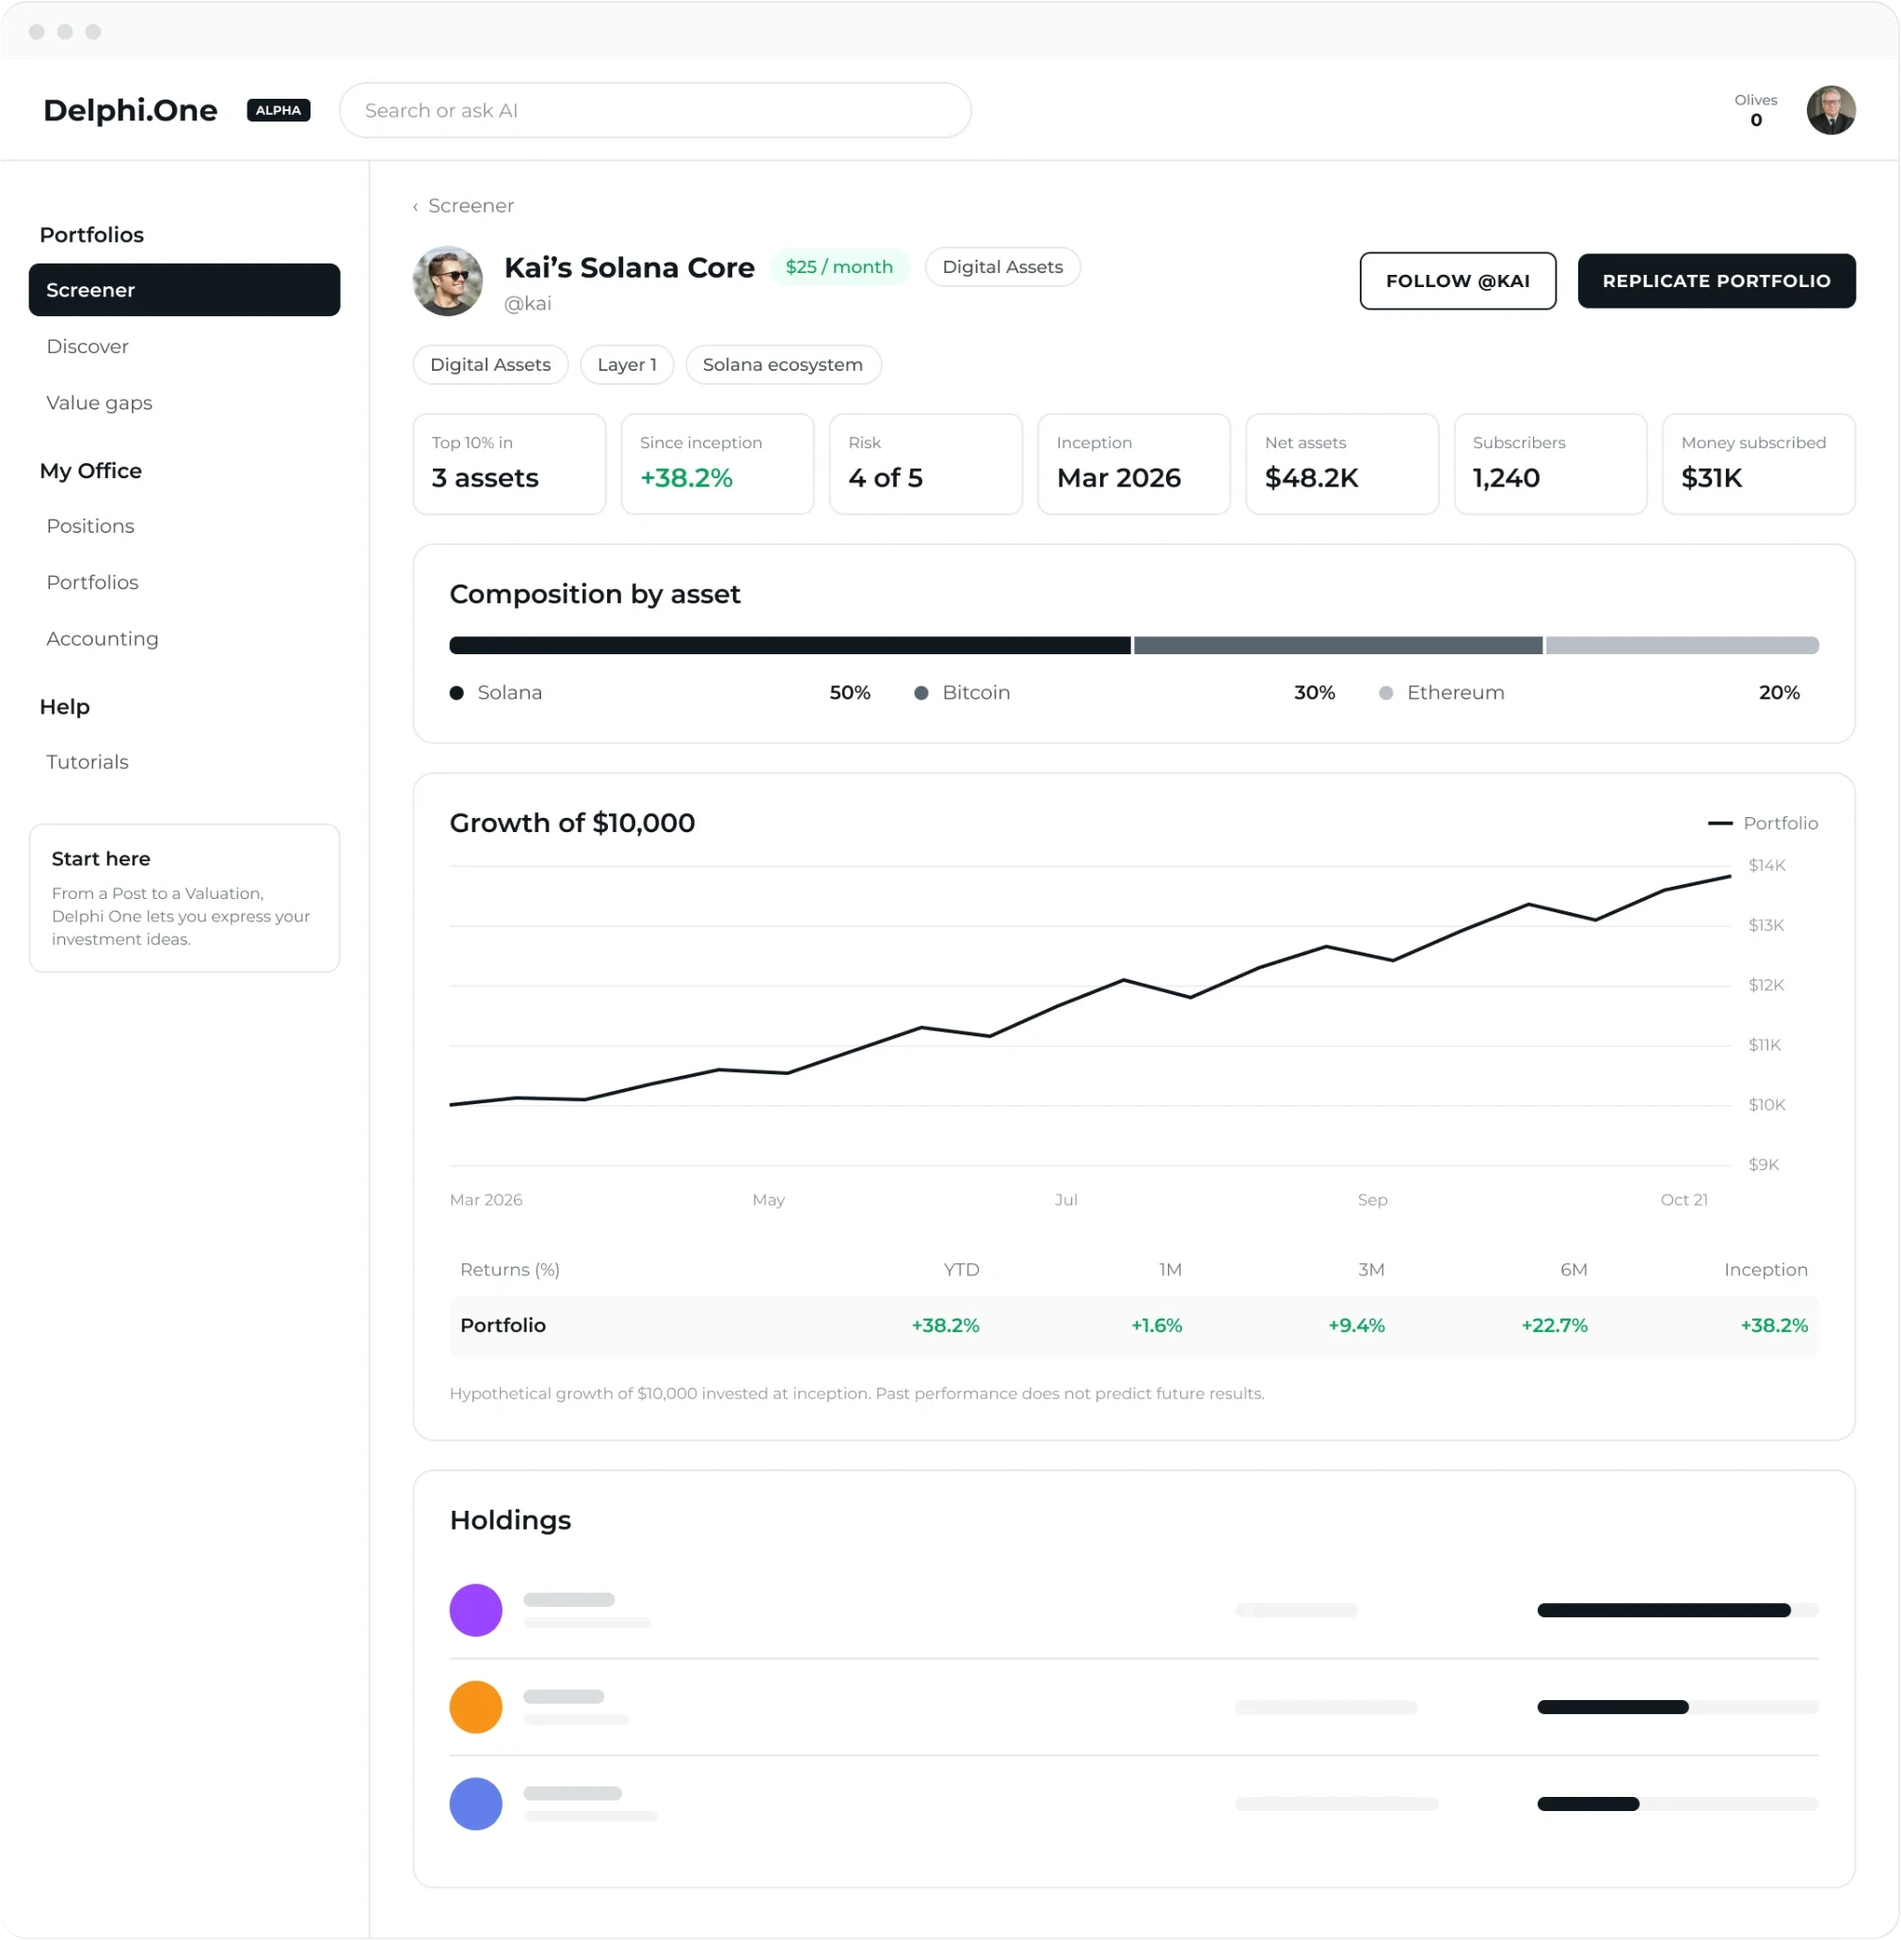
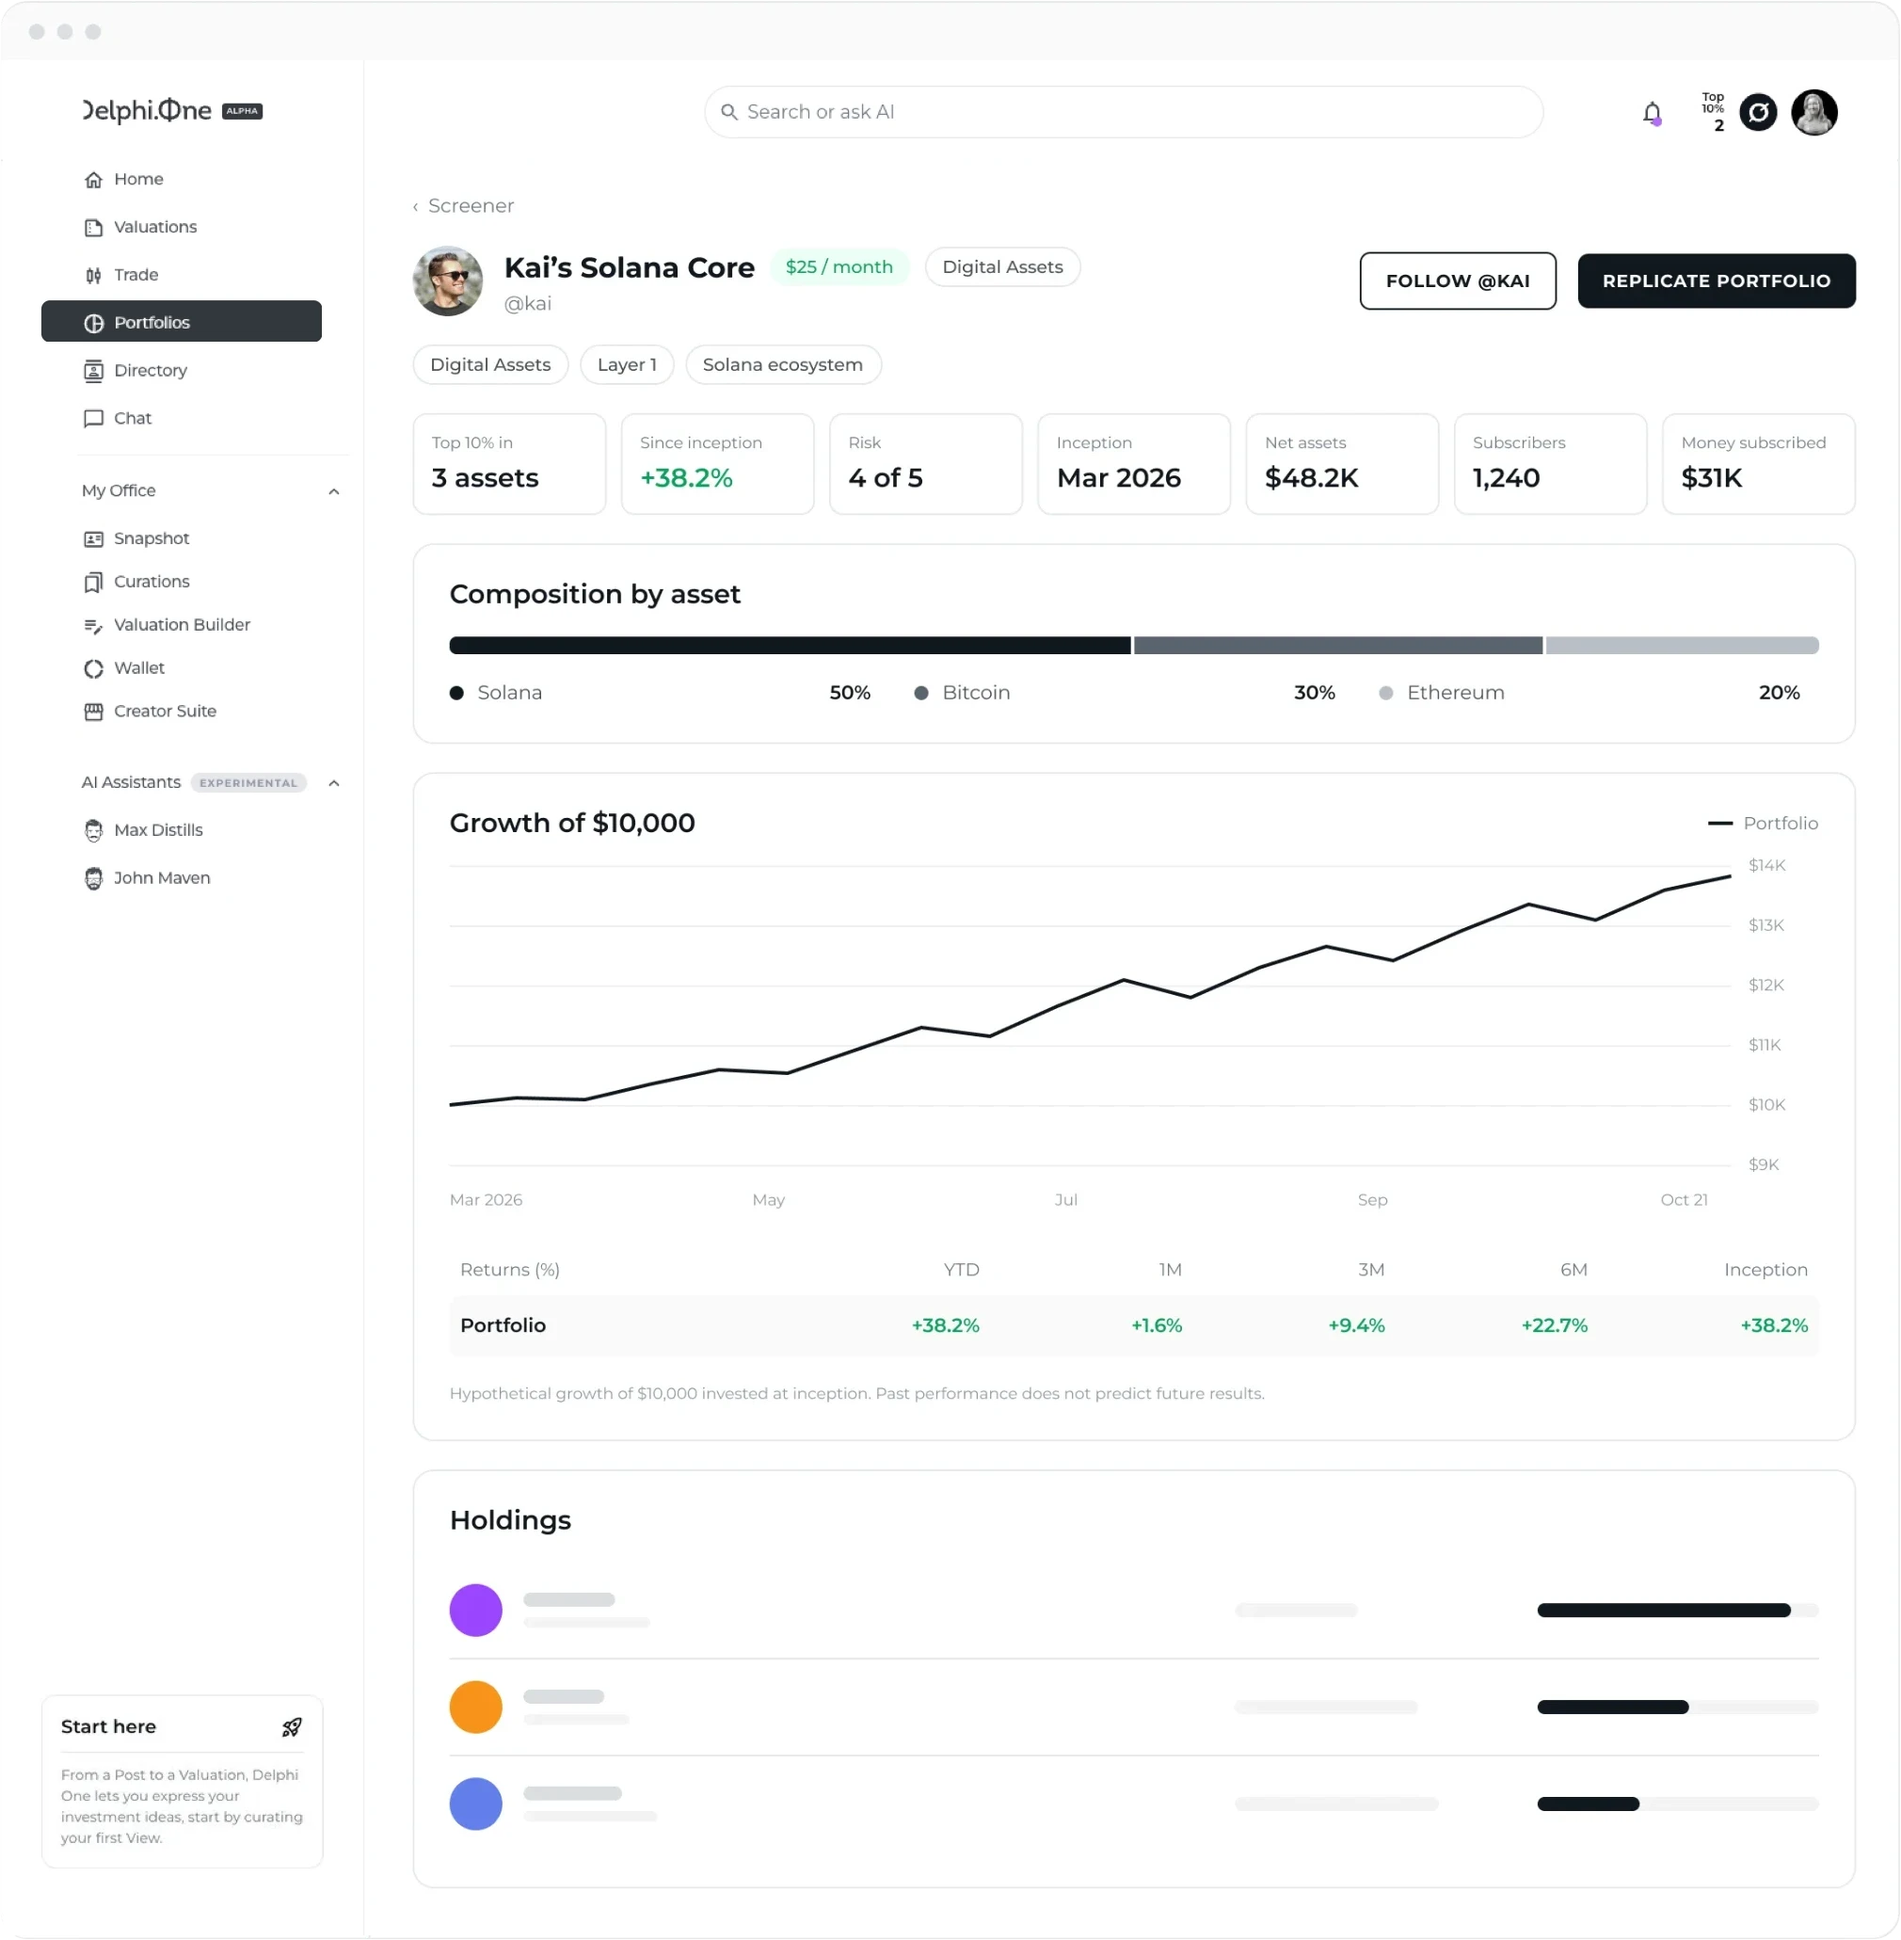
Trade, Portfolio y /creators: capturas como se ven en la app
- Trade right next to the idea: el panel muestra un View y su counter-View
  de Bitcoin como las cards reales (ilustración, stats y votos recortados de
  jd1_views; título y texto en HTML). En mobile, sólo el View.
- Every analyst's money is real: Buy/Sell igual al selector del ticket.
- We never hold your funds: la captura muestra sólo el Wallet, más grande.
- Barra de navegador arriba de las 3 capturas de Trade y de todas las de
  /creators (ShotCards, newsletter, Model portfolio, Olives y D1 seat).
- Portfolio (pf_window): header y menú reales de la app, Portfolios activo.

diff --git a/src/styles/global.css b/src/styles/global.css
@@ -271,6 +271,16 @@ section.sec{padding-block:clamp(64px,7vw,150px) 0}
 .appbar{height:44px;background:var(--soft);display:flex;align-items:center;gap:6px;padding:0 16px}
 .appbar i{width:10px;height:10px;border-radius:50%;background:var(--btnline);display:block}
 .appbar span{margin-left:16px;font-size:14px;color:var(--muted)}
+/* browser bar (as in vb_window / pf_window) for the screenshots that come without one */
+.appwin.browser::before,.pg-creators .fcar.pair .appwin::before,.pg-creators .nl-shot::before,.shotwin::before,#win .mock.wide::before{content:"";display:block;height:34px;box-sizing:border-box;border-bottom:1px solid #f0f0f0;background:radial-gradient(circle at 15px 50%,#dfe1e5 4.5px,transparent 5px),radial-gradient(circle at 30px 50%,#dfe1e5 4.5px,transparent 5px),radial-gradient(circle at 45px 50%,#dfe1e5 4.5px,transparent 5px),#fafafa}
+/* For Creators: every screenshot gets the bar too (20-nov) */
+.shotwin::before{position:relative;z-index:1}
+.shotbox .shotwin img{top:34px}
+.pg-creators .ntf.ntf-olives{top:calc(35px + 100cqw * .2)}
+.pg-creators .nl-stage .mail{top:calc(35px + 56 * var(--m))}
+#win .mock.wide{filter:drop-shadow(0 18px 40px rgba(16,23,30,.14))}
+#win .mock.wide img{filter:none;border-top-left-radius:0!important;border-top-right-radius:0!important;display:block}
+#win .mock.wide::before{position:absolute;left:0;right:0;bottom:100%;border-radius:12px 12px 0 0}
 .appwin .shot{width:100%;aspect-ratio:966/560;object-fit:cover;object-position:top;background:var(--soft2)}
 @media (max-width:900px){.frow,.frow.left{grid-template-columns:minmax(0,1fr)}.frow.left .ftext{order:0}.ftext p{font-size:16px;line-height:24px}}
 
@@ -1082,6 +1092,7 @@ section[tabindex="-1"]:focus{outline:none}
   /* the D1 seat: the window capped by the screen height like the other compositions, the cards under it */
   #win .stage>.mock{width:100%!important;max-width:min(770px,calc(45vh * 1440 / 1090));max-width:min(770px,calc(45svh * 1440 / 1090))}
   #win .stage>.mock img{width:100%!important;height:auto}
+  #win .stage>.mock{position:relative;margin-top:34px}
 }
 @media (max-width:900px){
   .shotgrid{grid-template-columns:minmax(0,1fr);gap:48px;max-width:560px;margin:0 auto}
@@ -1365,18 +1376,14 @@ html.tp .pg-creators .h-badge{font-size:16px;line-height:22px}
 /* Trade card 1: the Valuation's debate (Views, counter-Views, Arguments) over the chart, next to the ticket
    (Álvaro, 20-nov). Units of the screenshot's own 1300px-wide frame so it scales with the shot. */
 .appwin.dbt-host{position:relative;container-type:inline-size}
-.dbt{--t:calc(100cqw / 1300);position:absolute;left:calc(44 * var(--t));top:calc(353 * var(--t));width:calc(736 * var(--t));min-height:calc(358 * var(--t));box-sizing:border-box;background:var(--white);border:1px solid #e3e5e8;border-radius:calc(14 * var(--t));box-shadow:0 calc(6 * var(--t)) calc(24 * var(--t)) rgba(20,24,30,.08);padding:calc(18 * var(--t)) calc(22 * var(--t)) calc(14 * var(--t));font-size:calc(15 * var(--t));line-height:1.35;color:#2f3338;text-align:left}
-.dbt-hd{display:flex;align-items:center;gap:calc(12 * var(--t));padding-bottom:calc(12 * var(--t));border-bottom:1px solid #eceef0}
-.dbt-hd img{width:calc(40 * var(--t));height:calc(40 * var(--t));border-radius:50%;object-fit:cover}
-.dbt-hd b{display:block;font-size:calc(17 * var(--t));font-weight:600;color:#14181e}
-.dbt-hd small{display:block;margin-top:calc(2 * var(--t));font-size:calc(13 * var(--t));color:#7a7f85}
-.dbt-sec{margin:calc(12 * var(--t)) 0 calc(6 * var(--t));font-size:calc(12 * var(--t));font-weight:600;letter-spacing:.06em;text-transform:uppercase;color:#8b9096}
-.dbt-row{display:grid;grid-template-columns:calc(108 * var(--t)) 1fr auto;align-items:center;gap:calc(10 * var(--t));padding:calc(8 * var(--t)) calc(12 * var(--t));margin-top:calc(6 * var(--t));border:1px solid #eceef0;border-left:calc(3 * var(--t)) solid;border-radius:calc(8 * var(--t))}
-.dbt-row.pro{border-left-color:#16a34a}.dbt-row.con{border-left-color:#dc4b42}
-.dbt-k{justify-self:start;padding:calc(2 * var(--t)) calc(8 * var(--t));border-radius:999px;font-size:calc(12 * var(--t));font-weight:500}
-.dbt-row.pro .dbt-k{background:#e9f7ee;color:#15803d}.dbt-row.con .dbt-k{background:#fdecea;color:#c2392f}
-.dbt-row p{margin:0;font-weight:500;color:#202327;white-space:nowrap;overflow:hidden;text-overflow:ellipsis}
-.dbt-m{font-size:calc(13 * var(--t));color:#6b7076}
+/* "Trade right next to the idea": a View and its counter-View drawn like the app's cards (jd1_views).
+   Units are app pixels (--a); the illustration, stats row and vote row are crops of the real cards. */
+.dbt{--a:calc(100cqw * 736 / 1300 / 1104);position:absolute;left:calc(100cqw * 44 / 1300);top:calc(35px + 100cqw * 342 / 1300);width:calc(1104 * var(--a));box-sizing:border-box;display:grid;grid-template-columns:1fr 1fr;gap:calc(24 * var(--a));align-items:start;padding:calc(20 * var(--a));background:var(--white);border-radius:calc(16 * var(--a));box-shadow:0 calc(10 * var(--a)) calc(40 * var(--a)) rgba(20,24,30,.14),0 0 0 1px rgba(20,24,30,.05);text-align:left}
+.vw-card{display:flex;flex-direction:column;min-width:0;border:1px solid #e7e7e7;border-radius:calc(12 * var(--a));overflow:hidden;background:var(--white);padding-bottom:calc(14 * var(--a))}
+.vw-card img{display:block;width:100%;height:auto}
+.vw-card h4{margin:calc(10 * var(--a)) calc(28 * var(--a)) 0;font-size:calc(20 * var(--a));line-height:calc(26 * var(--a));font-weight:600;color:#1f2226;letter-spacing:0}
+.vw-card p{position:relative;margin:calc(12 * var(--a)) calc(28 * var(--a)) calc(10 * var(--a));height:calc(104 * var(--a));overflow:hidden;font-size:calc(16 * var(--a));line-height:calc(26 * var(--a));color:#3d4146}
+.vw-more{position:absolute;right:0;bottom:0;padding-left:calc(28 * var(--a));background:linear-gradient(90deg,rgba(255,255,255,0),#fff calc(24 * var(--a)));font-size:calc(14 * var(--a));color:#5f6368}
 
 /* Phones: the HTML panels over the screenshots get bigger so their text can be read (20-nov). Each panel
    keeps fewer rows so it still fits inside its window. */
@@ -1384,8 +1391,11 @@ html.tp .pg-creators .h-badge{font-size:16px;line-height:22px}
   .ntf{--u:calc(100cqw / 1630 * 2.6);right:calc(100cqw * .025);top:calc(100cqw * .04)}
   .ntf .ntf-it:nth-child(n+6){display:none}
   .ntf.ntf-olives{--u:calc(100cqw / 640);right:calc(100cqw * .03);top:calc(100cqw * .12);width:94%}
+  .pg-creators .ntf.ntf-olives{top:calc(35px + 100cqw * .12)}
   .mail{--m:calc(100cqw / 600);right:calc(100cqw * .03);top:calc(100cqw * .06)}
+  .pg-creators .nl-stage .mail{top:calc(35px + 100cqw * .06)}
   .nl-stage{margin-bottom:56%}
-  .dbt{--t:calc(100cqw / 920);left:3%;top:calc(100cqw * .255);width:94%;min-height:0}
-  .dbt .dbt-row:last-child{display:none}
+  .dbt{--a:calc(100cqw * .62 / 560);left:3%;top:calc(35px + 100cqw * .07);width:calc(560 * var(--a));grid-template-columns:1fr}
+  .dbt .vw-card + .vw-card,.dbt .vw-card p{display:none}
+  .dbt .vw-card h4{margin-bottom:calc(10 * var(--a))}
 }
